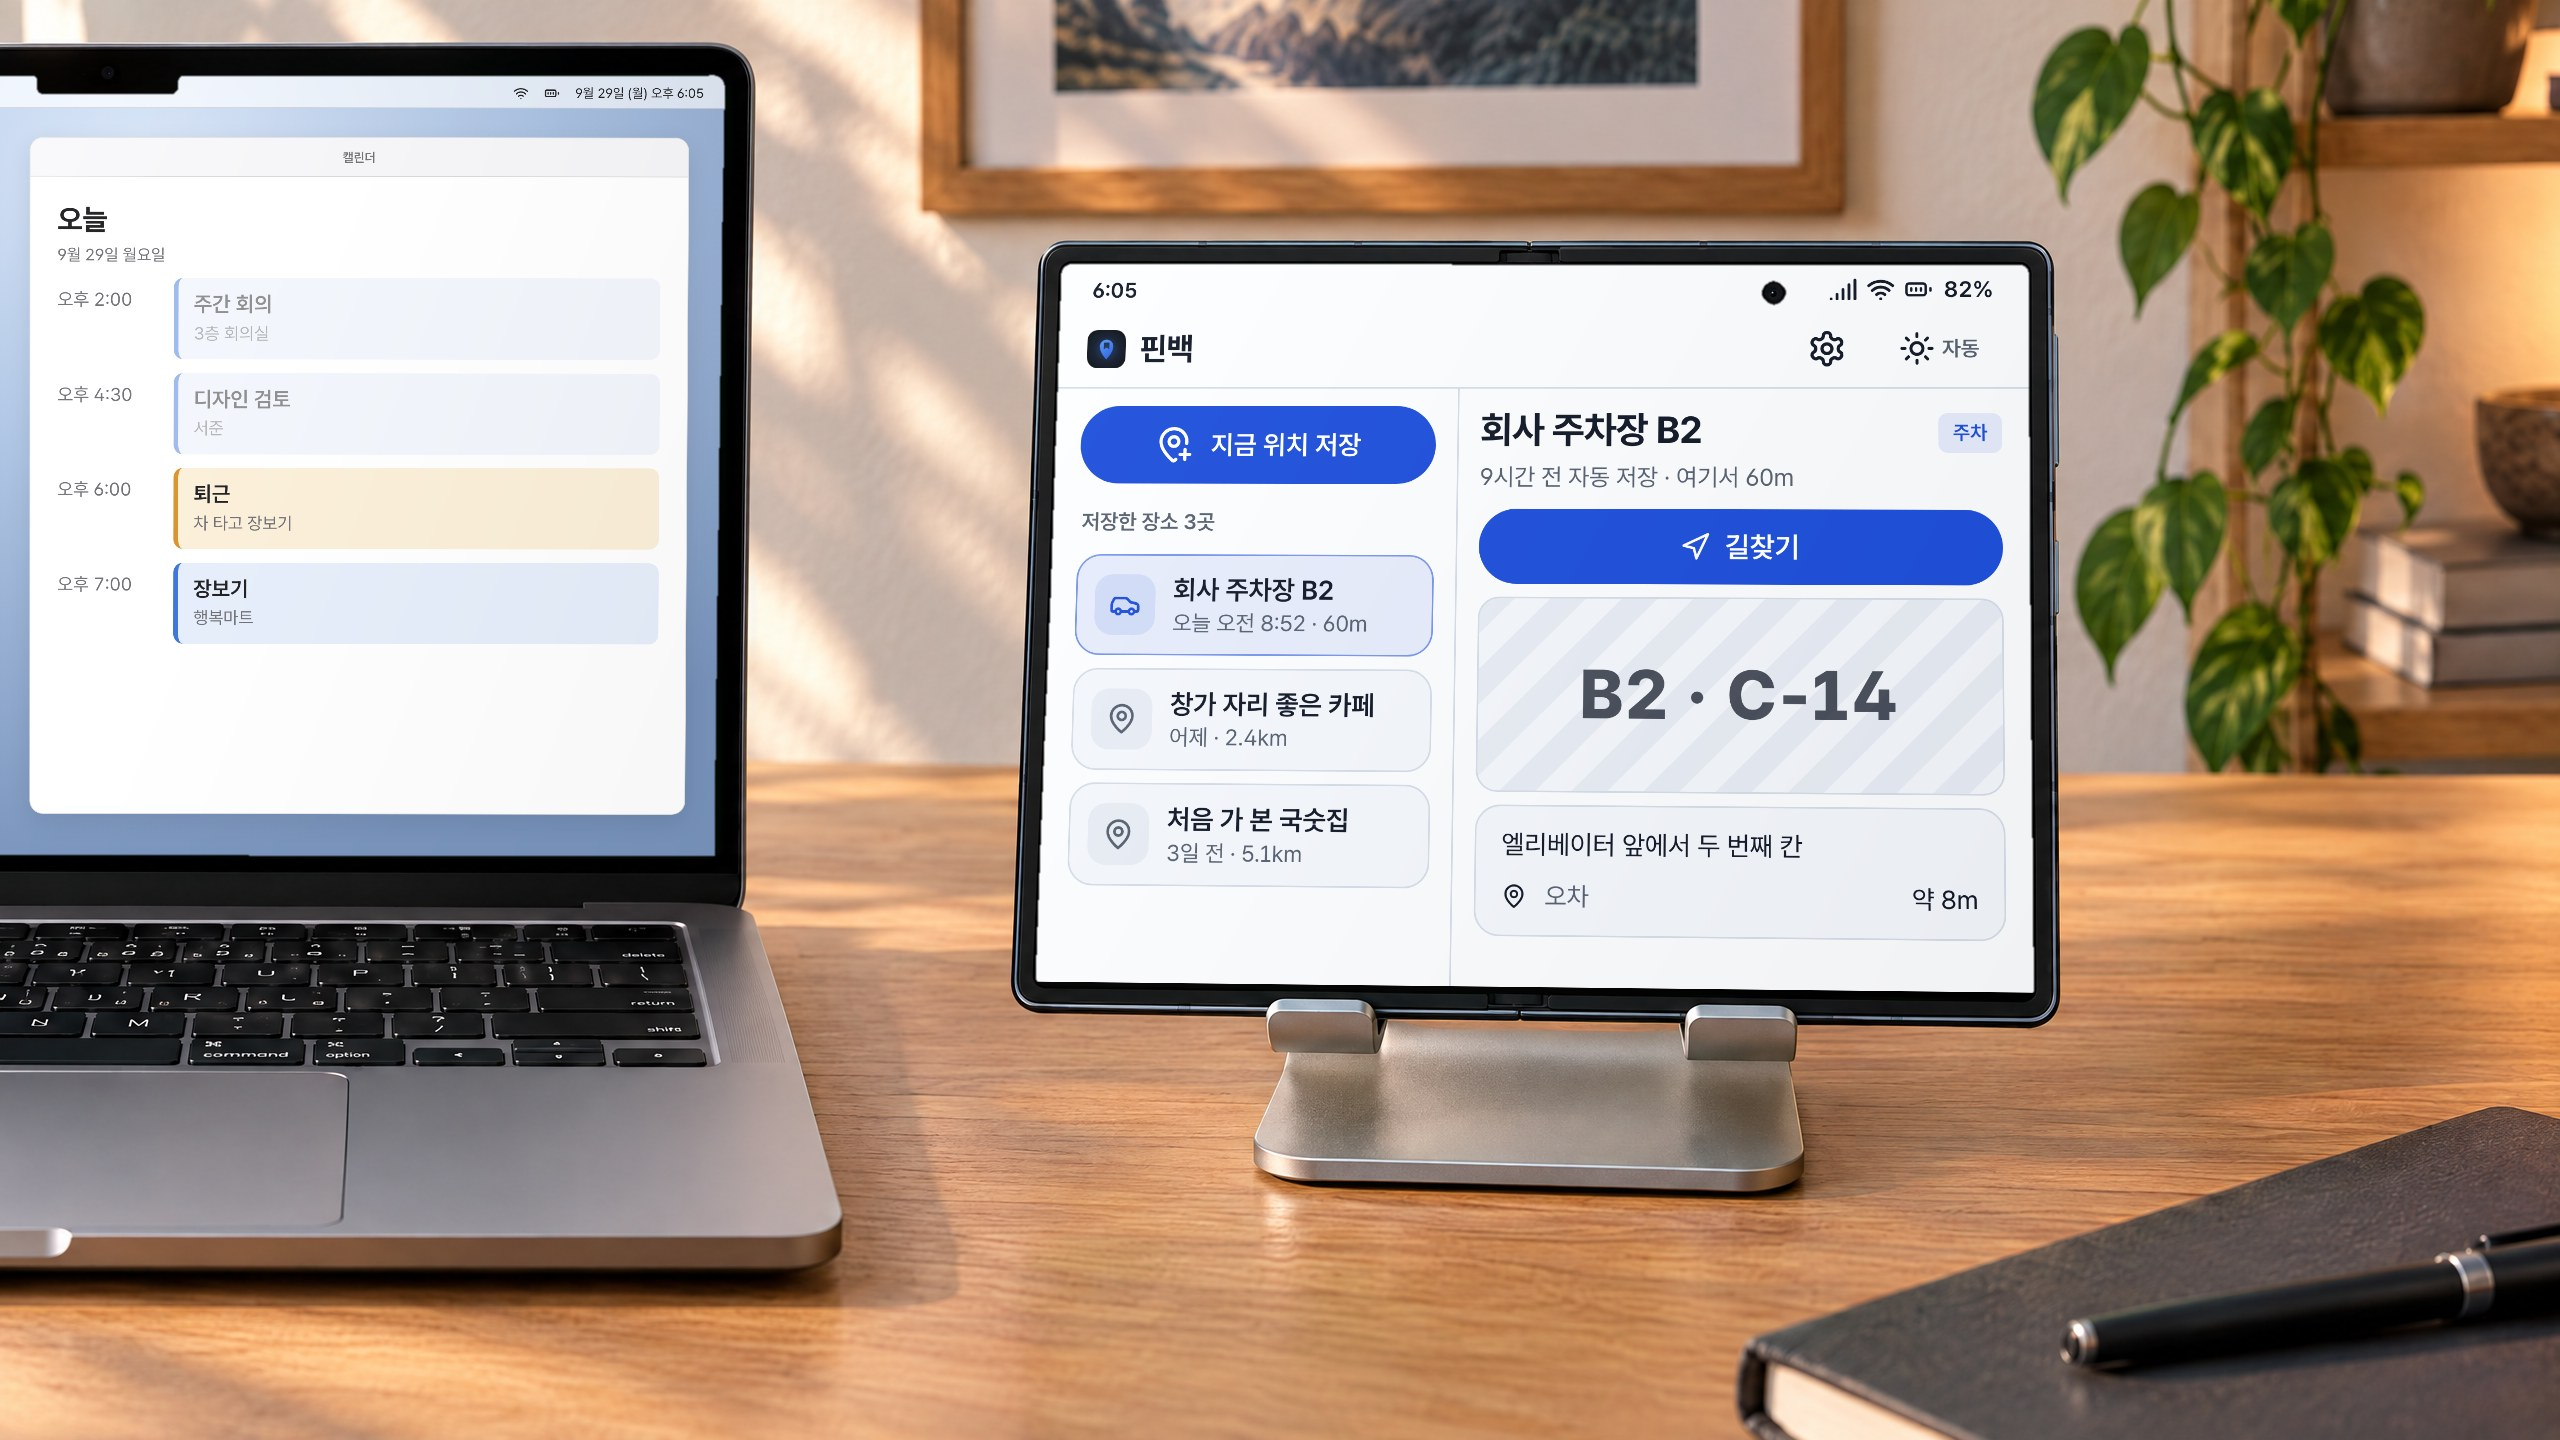
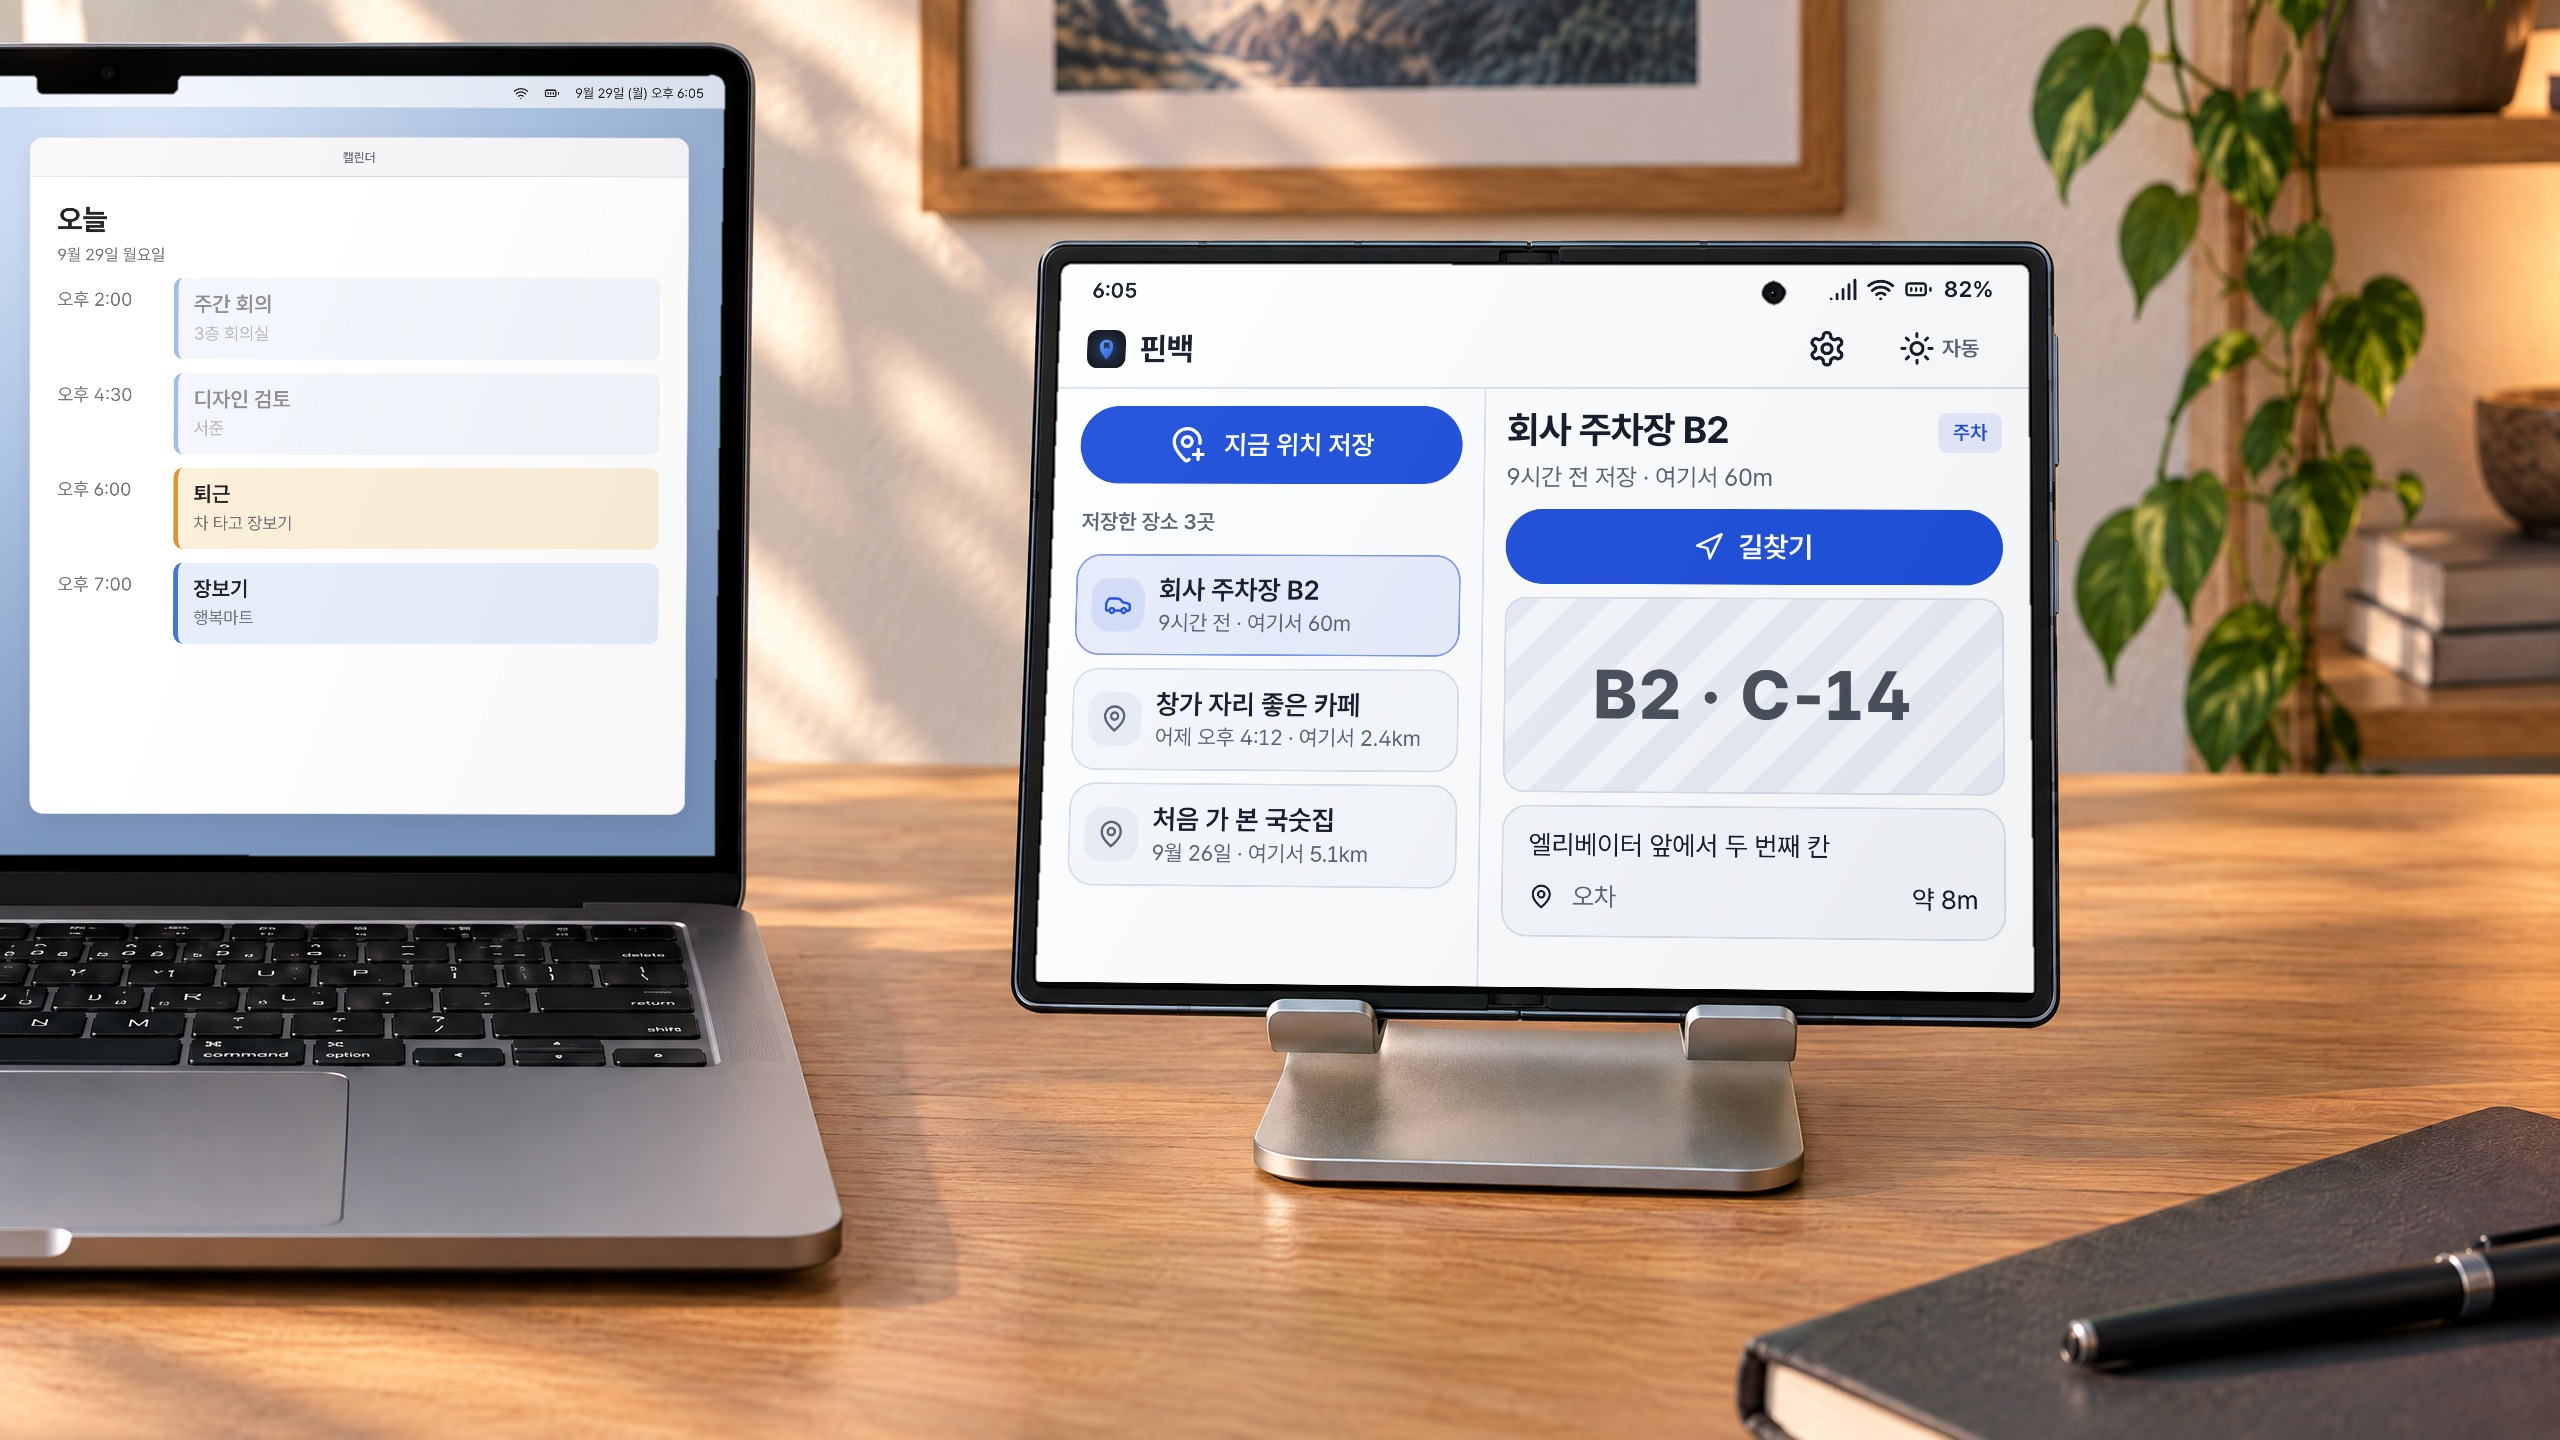
docs: scene fixes
Match save sheet and list/detail strings to the app (완료·사진 남기기·메모 (선택), relative time + 여기서 distance).

diff --git a/docs/mockups/scenes/2-parking-phone.html b/docs/mockups/scenes/2-parking-phone.html
@@ -12,13 +12,13 @@
   .status-bar { height: 24px; font-size: 12px; padding: 0 16px; }
   .app-bar { height: 44px; gap: 8px; padding: 0 14px; }
   .app-bar .title { font-size: 18px; }
-  .two-pane.list-detail { grid-template-columns: 225px 1fr; }
+  .two-pane.list-detail { grid-template-columns: 240px 1fr; }
   .two-pane > .pane { padding: 10px 12px; gap: 7px; }
   .savebtn { height: 44px; font-size: 15px; }
   .lbl { margin: 4px 2px 0; font-size: 12px; }
-  .prow { padding: 9px 10px; gap: 10px; }
-  .prow .tile { width: 34px; height: 34px; font-size: 18px; }
-  .prow .nm { font-size: 15px; } .prow .mt { font-size: 12.5px; }
+  .prow { padding: 9px 8px; gap: 8px; }
+  .prow .tile { width: 30px; height: 30px; font-size: 16px; }
+  .prow .nm { font-size: 15px; } .prow .mt { font-size: 12px; }
   .dh { font-size: 21px; line-height: 27px; }
   .dsub { font-size: 13.5px; }
   .navbtn { height: 42px; font-size: 16px; }
@@ -33,12 +33,12 @@
     <div class="pane">
       <div class="savebtn"><i data-pi="map-pin-plus"></i>지금 위치 저장</div>
       <div class="lbl">저장한 장소 3곳</div>
-      <div class="prow park sel"><div class="tile"><i data-pi="car"></i></div><div class="grow" style="min-width:0"><div class="nm">회사 주차장 B2</div><div class="mt">오늘 오전 8:52 · 60m</div></div></div>
-      <div class="prow"><div class="tile"><i data-icon="map-pin"></i></div><div class="grow" style="min-width:0"><div class="nm">창가 자리 좋은 카페</div><div class="mt">어제 · 2.4km</div></div></div>
-      <div class="prow"><div class="tile"><i data-icon="map-pin"></i></div><div class="grow" style="min-width:0"><div class="nm">처음 가 본 국숫집</div><div class="mt">3일 전 · 5.1km</div></div></div>
+      <div class="prow park sel"><div class="tile"><i data-pi="car"></i></div><div class="grow" style="min-width:0"><div class="nm">회사 주차장 B2</div><div class="mt">9시간 전 · 여기서 60m</div></div></div>
+      <div class="prow"><div class="tile"><i data-icon="map-pin"></i></div><div class="grow" style="min-width:0"><div class="nm">창가 자리 좋은 카페</div><div class="mt">어제 오후 4:12 · 여기서 2.4km</div></div></div>
+      <div class="prow"><div class="tile"><i data-icon="map-pin"></i></div><div class="grow" style="min-width:0"><div class="nm">처음 가 본 국숫집</div><div class="mt">9월 26일 · 여기서 5.1km</div></div></div>
     </div>
     <div class="pane">
-      <div class="row" style="align-items:flex-start"><div class="grow"><div class="dh">회사 주차장 B2</div><div class="dsub">9시간 전 자동 저장 · 여기서 60m</div></div><span class="pill park" style="margin-top:4px">주차</span></div>
+      <div class="row" style="align-items:flex-start"><div class="grow"><div class="dh">회사 주차장 B2</div><div class="dsub">9시간 전 저장 · 여기서 60m</div></div><span class="pill park" style="margin-top:4px">주차</span></div>
       <div class="navbtn"><i data-pi="navigation"></i>길찾기</div>
       <div class="photo"><div class="pillar">B2 · C-14</div></div>
       <div class="info"><div class="r" style="font-size:14.5px">엘리베이터 앞에서 두 번째 칸</div><div class="r"><i data-icon="map-pin"></i><span class="k">오차</span><span class="v">약 8m</span></div></div>

diff --git a/docs/mockups/scenes/1-save-phone.html b/docs/mockups/scenes/1-save-phone.html
@@ -21,7 +21,7 @@
   .field .fv { font-size: 16px; line-height: 22px; font-weight: 600; }
   .field .fv.memo { font-weight: 400; font-size: 15px; }
   .navbtn { height: 40px; font-size: 15px; }
-  .obtn { height: 40px; font-size: 14px; }
+  .obtn { height: 40px; font-size: 14px; flex:1; }
   .sub { font-size: 12px; color: var(--dim); margin-top: -4px; }
 </style></head><body>
 <div class="screen app-pinback light">
@@ -33,11 +33,11 @@
   <div class="scrim"></div>
   <div class="sheet">
     <div class="handle"></div>
-    <div class="st">저장했어요</div>
-    <div class="sub">방금 · 오차 약 12m</div>
+    <div class="st" style="display:flex;align-items:center;gap:8px"><span style="display:inline-flex;width:24px;height:24px;border-radius:12px;align-items:center;justify-content:center;background:color-mix(in srgb, var(--ok, #1a7f4b) 14%, transparent);color:var(--ok, #1a7f4b);font-size:14px"><i data-icon="check"></i></span>저장했어요</div>
+    <div class="sub">오차 약 12m · 이름과 메모는 나중에 고쳐도 돼요</div>
     <div class="field focus"><div class="fl">이름</div><div class="fv">창가 자리 좋은 카페</div></div>
-    <div class="field"><div class="fl">메모</div><div class="fv memo">2층 · 콘센트는 창가 쪽</div></div>
-    <div class="acts"><div class="obtn"><i data-pi="camera"></i>사진</div><div class="navbtn" style="flex:1">저장</div></div>
+    <div class="field"><div class="fl">메모 (선택)</div><div class="fv memo">2층 · 콘센트는 창가 쪽</div></div>
+    <div class="acts"><div class="obtn"><i data-pi="camera"></i>사진 남기기</div><div class="navbtn" style="flex:1"><i data-icon="check"></i>완료</div></div>
   </div>
 </div>
 <script src="../_icons.js"></script>
